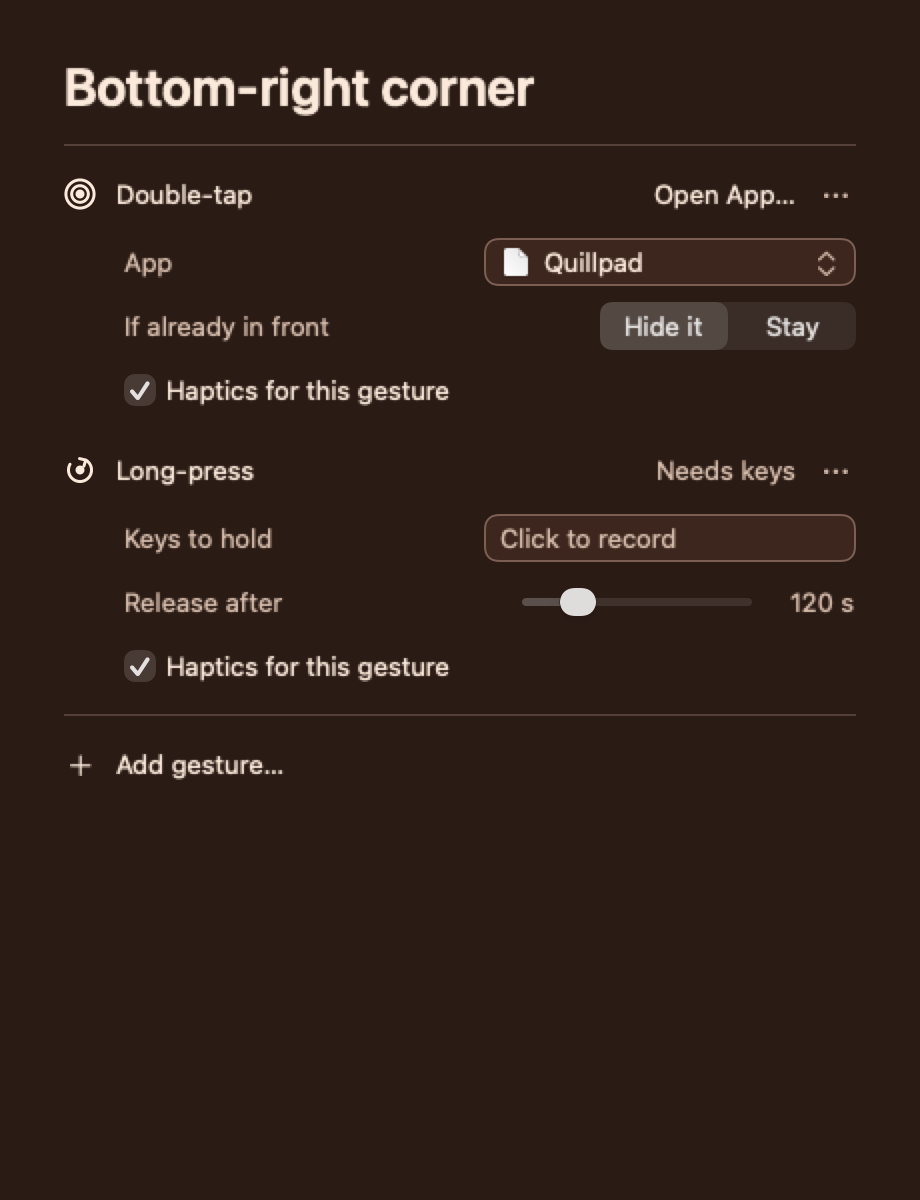
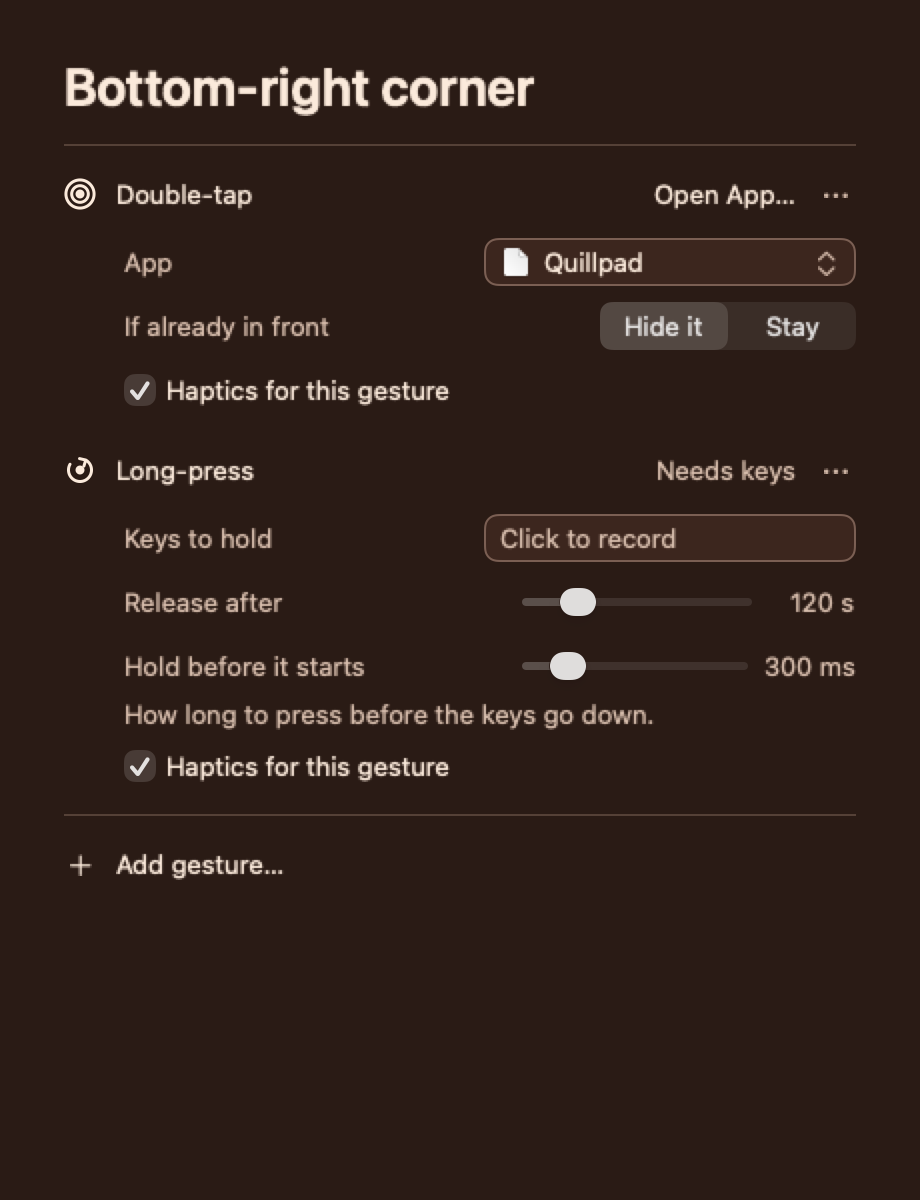
merge fix-up: UI tests follow batch 20's catalog (speedUp row, parameterised name); polish batch gets the picker '…' rule + speedUp checkbox + Press time row

diff --git a/Tests/EdgyUITests/Inspector/InspectorTests.swift b/Tests/EdgyUITests/Inspector/InspectorTests.swift
@@ -170,7 +170,7 @@ import Testing
     func ids(_ id: ActionID) -> [String] {
       ParameterEditor.editors(for: catalog.first { $0.id == id }).map(\.id)
     }
-    #expect(ids("audio.volume") == ["sensitivity", "haptics"])
+    #expect(ids("audio.volume") == ["speedUp", "sensitivity", "haptics"])
     #expect(ids("app.open") == ["bundleID", "whenFrontmost", "haptics"])
     #expect(ids("media.next") == ["haptics"])
     #expect(ActionNaming.orderedChoices(["stay", "hide"], parameter: "whenFrontmost") == ["hide", "stay"])

diff --git a/Tests/EdgyUITests/Picker/PickerTests.swift b/Tests/EdgyUITests/Picker/PickerTests.swift
@@ -39,7 +39,7 @@ import Testing
   @Test func searchFiltersGroupsAndTheDisclosure() {
     let found = catalog(.tap, query: "keyboard")
     #expect(Set(found.sections.flatMap(\.items).map(\.title)) == ["Keyboard Backlight On / Off", "Keyboard Shortcut…"])
-    #expect(found.others.map(\.title) == ["Keyboard Brightness"])
+    #expect(found.others.map(\.title) == ["Keyboard Brightness…"])
     #expect(found.othersTitle == "1 more needs a slide")
     #expect(catalog(.tap, query: "zzz").sections.isEmpty)
   }

diff --git a/.parallel-plans/batch-21-window-polish.md b/.parallel-plans/batch-21-window-polish.md
@@ -10,7 +10,8 @@ You own `Sources/EdgyUI/Mirror/**`, `Sources/EdgyUI/Inspector/**`, `Sources/Edgy
 3. **Chief rulings already made:** "Split into" hidden on app tabs; picker height capped at the pad's interior (already merged — keep it); `InspectorDrafts` may stay a side table (document it).
 4. **Labels on the pad** per bone 3 as updated: never "…" on the pad; parameter short value → action short name → clip with a 12 pt fade.
 5. **From batch 17:** `MiniMirrorView` must not fade for Disabled when the popover already applies 0.4 (one fade only — keep the popover's); unify the two `ConfigProblem` types by making the Window one a thin wrapper or typealias over `EdgyRuntime.ConfigProblem` plus the file name (keep `WindowConditions` source-compatible for EdgyApp).
-6. Use the catalog's `displayName` everywhere; never re-spell action names in the UI (batch 20 normalises the catalog spellings).
+6. **From batch 20 (merged):** levels and stepped slides now carry optional tuning parameters (`speedUp`, `stepMM`, `keepOpenMS`, `holdMS`). In the picker, end a name in "…" only when the action has a **required** parameter (Volume / Keyboard Brightness must not read "Volume…"); update `PickerTests.searchFiltersGroupsAndTheDisclosure` back to "Keyboard Brightness". Draw `.choice(["on","off"])` (`speedUp`) as a checkbox row. Add the long-press "Press time" row from `ConfigValidator.pressTimeParameter` (see done-batch-20.md).
+7. Use the catalog's `displayName` everywhere; never re-spell action names in the UI (batch 20 normalises the catalog spellings).
 
 ## Acceptance
 - Every must-fix and should-fix in the three critiques ticked in the done report with the snapshot that shows it (or the BRIEF rule that overrides it).
